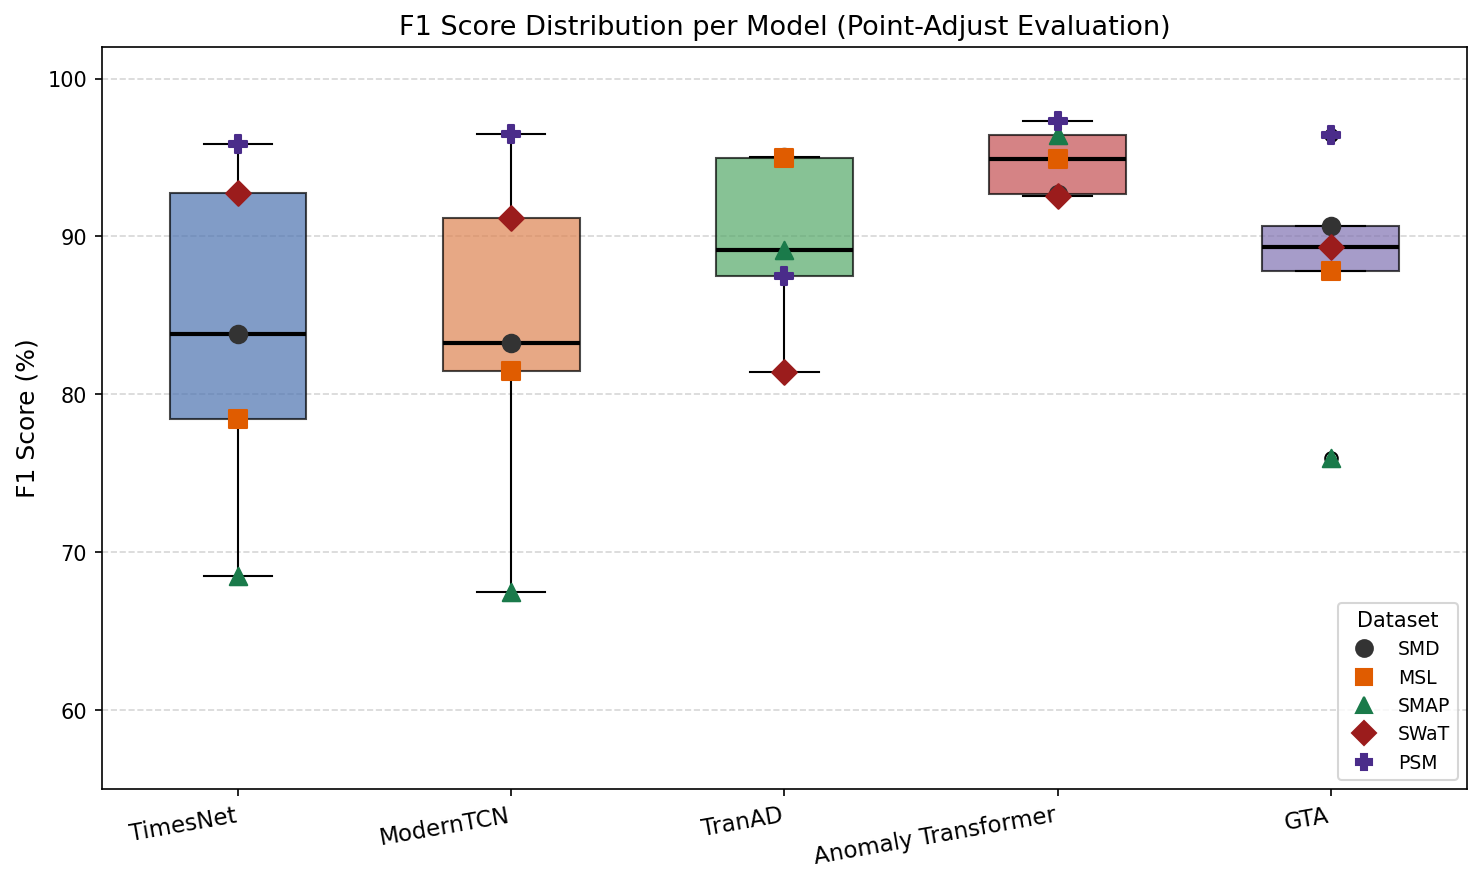
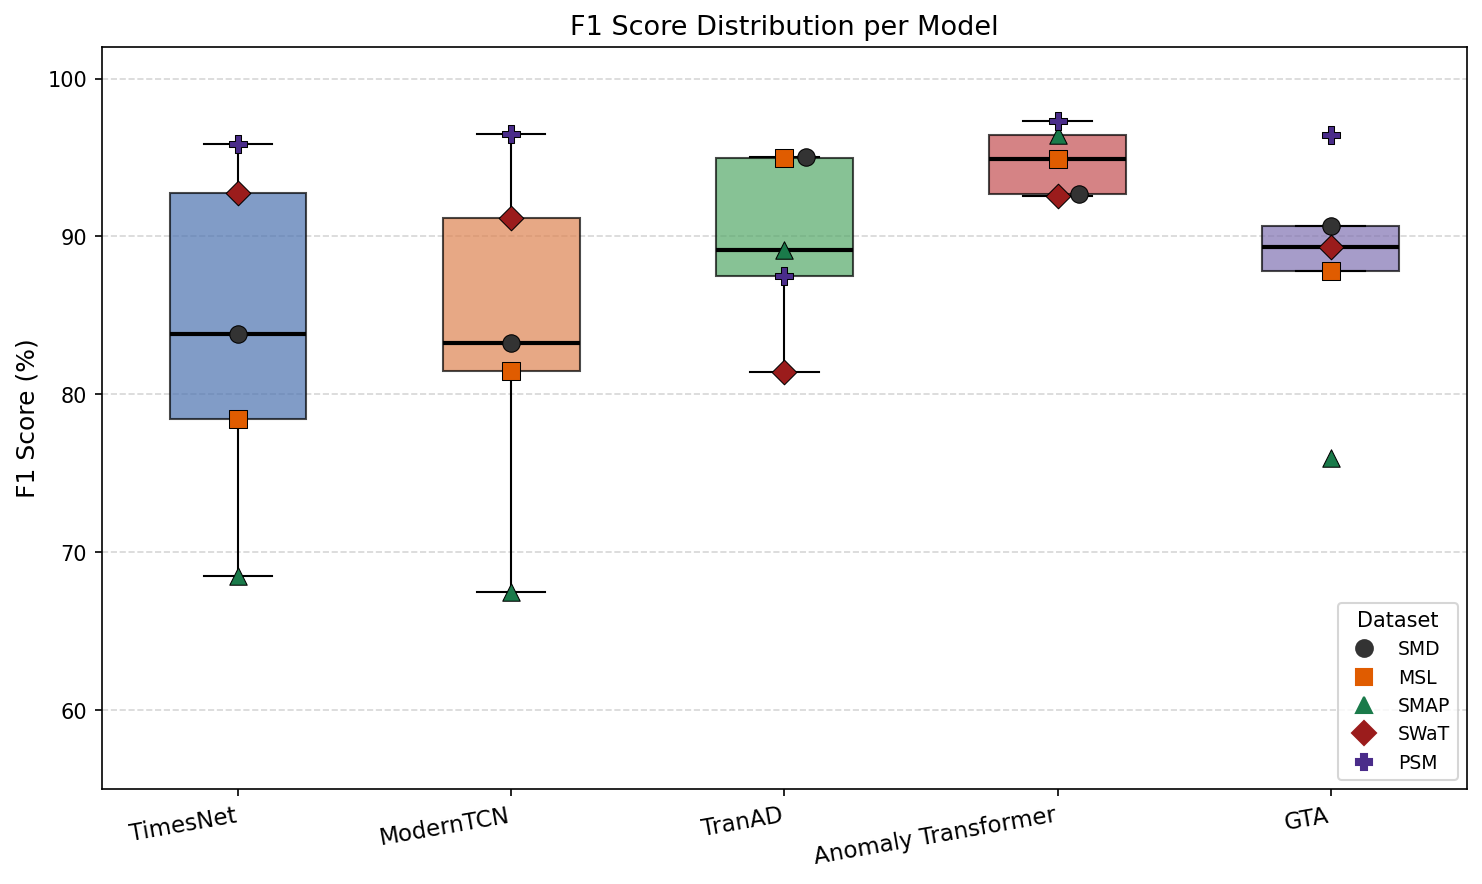
doc: results of f1 and au-pr

diff --git a/Thesis/thesis.tex b/Thesis/thesis.tex
@@ -22,6 +22,7 @@
 \usepackage{url}
 \usepackage{hyperref}
 \usepackage{booktabs}
+\usepackage{multirow}
 
 \renewcommand*\sfdefault{lmss}
 \renewcommand*\ttdefault{txtt}
@@ -1117,46 +1118,217 @@ of the test set time steps are labelled anomalous.
 \caption{Dataset Statistics}
 \begin{tabular}{llrrrrrr}
 \toprule
-\textbf{Dataset} & \textbf{Domain} & \textbf{Entities} & \textbf{Dim.} 
+\textbf{Dataset} & \textbf{Domain} & \textbf{Dim.} 
     & \textbf{Train} & \textbf{Test} & \textbf{Anom. Rate (\%)} \\
 \midrule
-SMD  & Server machines  & 28 & 38 & 566,724 & 708,420 & 4.20 \\
-MSL  & Spacecraft       & 27 & 55 &  44,653 &  73,729 & 10.48 \\
-SMAP & Spacecraft       & 55 & 25 & 108,146 & 427,617 & 12.83 \\
-SWaT & Water treatment  &  1 & 51 & 396,000 & 449,919 & 12.14 \\
-PSM  & Server machines  &  1 & 25 & 105,984 &  87,841 & 27.76 \\
+SMD  & Server machines  & 38 & 566,724 & 708,420 & 4.20 \\
+MSL  & Spacecraft       & 55 &  44,653 &  73,729 & 10.48 \\
+SMAP & Spacecraft       & 25 & 108,146 & 427,617 & 12.83 \\
+SWaT & Water treatment  & 51 & 396,000 & 449,919 & 12.14 \\
+PSM  & Server machines  & 25 & 105,984 &  87,841 & 27.76 \\
 \bottomrule
 \end{tabular}
 \end{table}
 
-\section{Results (TODO)}
+\section{TODO: Methodology}
+\label{ch:methodology}
 
-\subsection{f1 score and AUC-ROC}
+\section{Results}
 
-\begin{figure}[htbp]
+All models were trained and evaluated following the experimental setup described in their respective publications, 
+with the goal of reproducing the best performance reported by their authors. Where a paper explicitly specified 
+hyperparameter values, those values were used directly. For hyperparameters not described in a paper, 
+the default values provided in the model's official repository were adopted. This approach was chosen to ensure 
+that comparisons reflect each model's intended operating point rather than an arbitrarily tuned configuration, 
+and to expose any discrepancies between reported and reproducible performance. Training procedures, including 
+the number of epochs, learning rate schedules, and data preprocessing steps, were likewise kept consistent 
+with each paper's specification wherever possible. The efficiency metrics --- multiply-accumulate operations (MACs), 
+memory footprint, and inference latency --- were collected under a unified profiling setup, as 
+described in Chapter~\ref{ch:methodology}, to ensure cross-model comparability independent of the 
+individual training configurations.
+
+\subsection{F1 score and AU-PR}
+
+Table~\ref{tab:accuracy} reports the precision, recall, F1 score, and area under the precision-recall curve (AU-PR) 
+for all five models across the five benchmark datasets, together with the macro-average F1 and AU-PR computed over all datasets. 
+
+\begin{table}[ht]
+\centering
+\caption{Detection accuracy (Precision, Recall, F1, and AU-PR in \%) across five benchmark datasets. 
+Best F1 and best AU-PR per dataset in \textbf{bold}.}
+\label{tab:accuracy}
+\begin{tabular}{ll rrrrr}
+\toprule
+\textbf{Dataset} & \textbf{Metric} & \textbf{TimesNet} & \textbf{ModTCN} & \textbf{TranAD} & \textbf{AnomTr.} & \textbf{GTA} \\
+\midrule
+\multirow{4}{*}{SMD}
+    & Precision & 87.57 & 86.84 & 90.72 & 89.41 & 86.17 \\
+    & Recall    & 80.35 & 80.01 & 99.73 & 96.20 & 95.67 \\
+    & F1        & 83.80 & 83.28 & \textbf{95.01} & 92.68 & 90.67 \\
+    & AU-PR     & 14.90 & 14.20 & \textbf{50.19} &  4.45 & 15.82 \\
+\midrule
+\multirow{4}{*}{MSL}
+    & Precision & 87.04 & 89.39 & 90.38 & 98.89 & 91.69 \\
+    & Recall    & 71.40 & 74.80 & 99.99 & 98.00 & 84.24 \\
+    & F1        & 78.45 & 81.45 & \textbf{94.95} & 94.91 & 87.81 \\
+    & AU-PR     & 14.85 & 14.80 & \textbf{16.59} & 10.42 & 11.62 \\
+\midrule
+\multirow{4}{*}{SMAP}
+    & Precision & 89.49 & 90.29 & 80.43 & 93.67 & 73.66 \\
+    & Recall    & 55.44 & 53.85 & 99.99 & 99.32 & 78.48 \\
+    & F1        & 68.47 & 67.46 & 89.15 & \textbf{96.41} & 76.00 \\
+    & AU-PR     & 11.86 & 11.36 & 10.16 & \textbf{12.90} & 12.33 \\
+\midrule
+\multirow{4}{*}{SWaT}
+    & Precision & 90.29 & 95.85 & 99.77 & 98.88 & 90.27 \\
+    & Recall    & 95.41 & 86.97 & 68.79 & 87.00 & 88.36 \\
+    & F1        & \textbf{92.78} & 91.19 & 81.43 & 92.56 & 89.31 \\
+    & AU-PR     & 10.81 &  9.60 & \textbf{73.66} & 11.10 &  8.62 \\
+\midrule
+\multirow{4}{*}{PSM}
+    & Precision & 98.37 & 98.74 & 89.44 & 97.16 & 99.27 \\
+    & Recall    & 93.46 & 94.32 & 85.63 & 97.47 & 93.71 \\
+    & F1        & 95.85 & 96.48 & 87.50 & \textbf{97.31} & 96.41 \\
+    & AU-PR     & 37.80 & 38.29 & \textbf{46.01} & 28.84 & 34.97 \\
+\midrule
+\multirow{2}{*}{Average}
+    & F1        & 83.87 & 83.97 & 89.61 & \textbf{94.77} & 88.04 \\
+    & AU-PR     & 18.04 & 17.65 & \textbf{39.32} & 13.54 & 16.67 \\
+\bottomrule
+\end{tabular}
+\end{table}
+
+Across the five datasets, TranAD \citep{tranad2022} and Anomaly Transformer \citep{anomalytransformer2022} consistently achieve the highest F1 scores. 
+TranAD attains the best F1 on SMD (95.01\%) and MSL (94.95\%), driven by near-perfect recall on both datasets (99.73\% and 99.99\%, respectively), 
+which is characteristic of its adversarial training objective and self-conditioning mechanism designed to amplify reconstruction deviations \citep{tranad2022}. 
+Anomaly Transformer leads on SMAP (96.41\%) and PSM (97.31\%), where its association-discrepancy criterion produces strong separation between normal and 
+anomalous time points \citep{anomalytransformer2022}. On SWaT, TimesNet achieves the highest F1 (92.78\%), marginally ahead of Anomaly Transformer (92.56\%) and ModernTCN (91.19\%).
+
+In terms of average F1, Anomaly Transformer ranks first (94.77\%), closely followed by TranAD (89.61\%) and GTA (88.04\%), while TimesNet (83.87\%) 
+and ModernTCN (83.97\%) trail slightly behind. The two convolutional models --- TimesNet \citep{timesnet2023} and ModernTCN \citep{moderntcn2024} 
+--- show very similar profiles across all datasets, with consistently high precision but lower recall on the more challenging SMAP dataset.
+
+The AU-PR results tell a notably different story. While all models achieve high F1 under point adjustment, AU-PR values are substantially lower across 
+the board, reflecting the difficulty of maintaining precision across the full range of anomaly score thresholds on heavily imbalanced test sets 
+\citep{darban2024survey}. TranAD stands out with the highest average AU-PR (39.32\%), largely owing to its strong SWaT (73.66\%) and SMD (50.19\%) results. 
+All other models cluster between 13 and 18\% in average AU-PR, with Anomaly Transformer notably low at 13.54\% despite its leading average F1. This divergence 
+between F1 and AU-PR highlights the sensitivity of point-adjusted F1 to threshold selection, and underscores the value of reporting AU-PR as a complementary, 
+threshold-independent measure of detection quality \citep{darban2024survey}.
+
+
+Figure~\ref{fig:f1_boxplot} and Figure~\ref{fig:aupr_boxplot} complement the per-dataset results in 
+Table~\ref{tab:accuracy} by visualising the distribution of F1 and AU-PR scores across datasets for 
+each model, making consistency and variance across benchmarks directly comparable.
+
+\begin{figure}[ht]
     \centering
     \includegraphics[width=\textwidth]{f1_boxplot_by_model.png}
-    \caption{todo}
-    \label{fig:f1_boxplot_by_model}
+    \caption{F1 score distribution per model across the five benchmark datasets under the 
+    point-adjust evaluation protocol. Each marker represents a single dataset result.}
+    \label{fig:f1_boxplot}
 \end{figure}
 
-\begin{figure}[htbp]
+\begin{figure}[ht]
     \centering
-    \includegraphics[width=\textwidth]{auc_boxplot_by_model.png}
-    \caption{todo}
-    \label{fig:auc_boxplot_by_model}
+    \includegraphics[width=\textwidth]{aupr_boxplot_by_model.png}
+    \caption{AU-PR distribution per model across the five benchmark datasets. 
+    Each marker represents a single dataset result.}
+    \label{fig:aupr_boxplot}
 \end{figure}
 
-\subsection{Memory usage}
+The F1 boxplot reveals that Anomaly Transformer achieves not only the highest median F1 but also 
+the narrowest interquartile range among all models, indicating consistent strong performance across 
+datasets. Its scores are tightly clustered between 92\% and 97\%. TranAD shows a wider spread, 
+reflecting its strong performance on SMD and MSL contrasted with a notably lower F1 on SWaT (81.43\%). 
+TimesNet and ModernTCN exhibit very similar distributions, both characterised by a wide interquartile range 
+driven by their weak performance on SMAP (68.47\% and 67.46\% respectively). 
+GTA presents a relatively compact distribution with a high median, 
+though it similarly struggles on SMAP, which appears as a pronounced outlier at 76.00\%, 
+while its PSM result (96.41\%) appears as a positive outlier at the upper end. It is worth 
+noting that the individual dataset markers for SMAP and PSM are not connected by the standard boxplot whiskers. 
+This occurs because with only five data points per model, any observation that falls sufficiently 
+far from the interquartile range is rendered as a standalone outlier marker rather than being 
+included within the whisker extent, following the conventional 1.5$\times$IQR rule.
 
-\begin{figure}[htbp]
+The AU-PR boxplot tells a strikingly different story. Four of the five models --- TimesNet, 
+ModernTCN, Anomaly Transformer, and GTA --- display very compressed distributions clustered 
+between roughly 8\% and 16\%, with PSM as a consistent positive outlier for all of them. This 
+reveals that, despite their differing F1 profiles, these models perform similarly poorly in 
+terms of threshold-independent detection quality across most datasets. TranAD is a clear 
+exception: its interquartile range spans approximately 16\% to 50\%, and its SWaT AU-PR of 
+73.66\% appears as a high outlier, driving both its superior average AU-PR and the large 
+variance in its distribution. Notably, Anomaly Transformer's SMD AU-PR (4.45\%) appears as a 
+strong negative outlier, highlighting that its high F1 on that dataset is highly sensitive to 
+threshold choice. Taken together, the two plots suggest that high point-adjusted F1 and high 
+AU-PR are not interchangeable: a model can rank first on F1 while performing near the bottom 
+on AU-PR, reinforcing the importance of reporting both metrics \citep{darban2024survey}.
+
+\subsubsection{What's behind TranAD's high AU-PR on SWaT}
+Figure~\ref{fig:pr_tranad_swat} shows the precision-recall curve for TranAD on the SWaT dataset and the no-skill baseline.
+
+\begin{figure}[ht]
     \centering
-    \includegraphics[width=\textwidth]{radar_memory.png}
-    \caption{todo}
-    \label{fig:radar_memory}
+    \includegraphics[width=\textwidth]{pr_curve_TranAD_SWaT.png}
+    \caption{Precision-recall curve for TranAD on SWaT. The dashed line indicates
+    the no-skill baseline equal to the dataset's anomaly rate (12.9\%).}
+    \label{fig:pr_tranad_swat}
 \end{figure}
 
-\subsection{Inference Time}
+A precision-recall curve is constructed by sweeping the anomaly score threshold from its highest 
+value (flagging almost nothing) to its lowest (flagging everything). Moving left to right along the curve 
+corresponds to lowering the anomaly score threshold and accepting more detections. A high area 
+under the curve represents both high recall and high precision: high precision is achieved by 
+having few false positives in the returned results, and high recall by having few false negatives 
+among all anomalous points \citep{sklearn_pr_curve}. A system with high precision but low recall 
+returns very few detections but most of its predicted labels are correct; a system with high 
+recall but low precision returns most of the relevant anomalies but the proportion of false alarms 
+among the returned results is high \citep{sklearn_pr_curve}. The 
+no-skill baseline --- shown as the dashed horizontal line at 0.129 --- represents a random 
+classifier that flags anomalies at the dataset's base rate; any useful model must remain 
+substantially above this line. The area under the full curve (AU-PR, here equal to 0.731) 
+summarises performance across all thresholds into a single scalar, making it a 
+threshold-independent measure of detection quality \citep{darban2024survey}.
+
+\paragraph{What the curve reveals for TranAD on SWaT.}
+The curve has a distinctive L-shape. From recall 0.0 to approximately 0.6, precision remains 
+near 1.0, meaning that at high thresholds TranAD flags very few points but almost all of them 
+are true anomalies. This reflects TranAD's adversarial self-conditioning mechanism, which 
+produces large, concentrated reconstruction errors on genuinely anomalous windows in 
+SWaT \citep{trad2022}. The steep vertical drop around recall 0.6--0.65 marks the point at 
+which the threshold crosses into regions where normal and anomalous score distributions begin 
+to overlap, causing precision to collapse rapidly. Beyond recall 0.65, the curve descends 
+gradually towards the baseline, indicating that recovering the remaining anomalous points 
+requires accepting a large number of false positives.
+
+
+\paragraph{Confusion Matrix.}
+\begin{figure}[ht]
+    \centering
+    \includegraphics[width=0.7\textwidth]{confusion_matrix_TranAD_SWaT.png}
+    \caption{Confusion matrix for TranAD on SWaT. Rows represent the 
+    actual class and columns the predicted class.}
+    \label{fig:cm_tranad_swat}
+\end{figure}
+
+Figure~\ref{fig:cm_tranad_swat} shows the confusion matrix for TranAD on SWaT. 
+Out of the total anomalous points in the test set, only 223 
+are flagged as anomalous (true positives), while 421 are missed entirely (false negatives). At 
+the same time, only 1 normal point is incorrectly flagged as anomalous (false positive), and 
+4,355 normal points are correctly identified as normal (true negatives).
+
+TranAD almost never raises a false alarm (only 1 false positive), but as a consequence misses 
+nearly two thirds of all anomalous points at the point level. It is important to note that 
+these are raw point-level counts without point adjustment applied. Under the point-adjust 
+protocol, any anomaly segment in which at least one point is correctly flagged is credited as 
+fully detected \citep{su2019smd}, which substantially changes the effective recall and explains 
+why the PA F1 reported in Table~\ref{tab:accuracy} is considerably higher than these raw counts 
+would suggest.
+
+\subsubsection{TODO: What type of anomalies were detected by each model? why?}
+
+\subsection{TODO: Memory Usage}
+
+\subsection{TODO: Inference Time}
 Why TimesNet latency is much higer that ModernTCN when both rily on convolutional architecture? 
 
 Meanwhile, both methods are inspired by CV and intend to make the time series
@@ -1165,20 +1337,6 @@ paths to accomplish this goal. TimesNet makes efforts to transform the 1D time s
 making the time series can be modeled by the 2D ConvNets in CV community. But the additional data
 transformation and aggregation modules also bring extra memory usage and slower training speed.
 
-\subsection{Visualising reconstructions}
-\begin{figure}[htbp]
-    \centering
-    \includegraphics[width=\textwidth]{TimesNet_SMD_worst_segment_channels.png}
-    \caption{TimesNet SMD missed anomaly}
-    \label{fig:TimesNet_SMD_worst_segment_channels}
-\end{figure}
-
-\begin{figure}[htbp]
-    \centering
-    \includegraphics[width=\textwidth]{ModernTCN_SMD_worst_segment_channels.png}
-    \caption{ModernTCN SMD missed anomaly}
-    \label{fig:ModernTCN_SMD_worst_segment_channels}
-\end{figure}
 
 
 %%%%%%%%%%%%%%%%%%%%%%%%%%%%%%%%%%%%%%%%%%%%%%%%%%%%%%%%%%%%%%%%%%%%%%%
